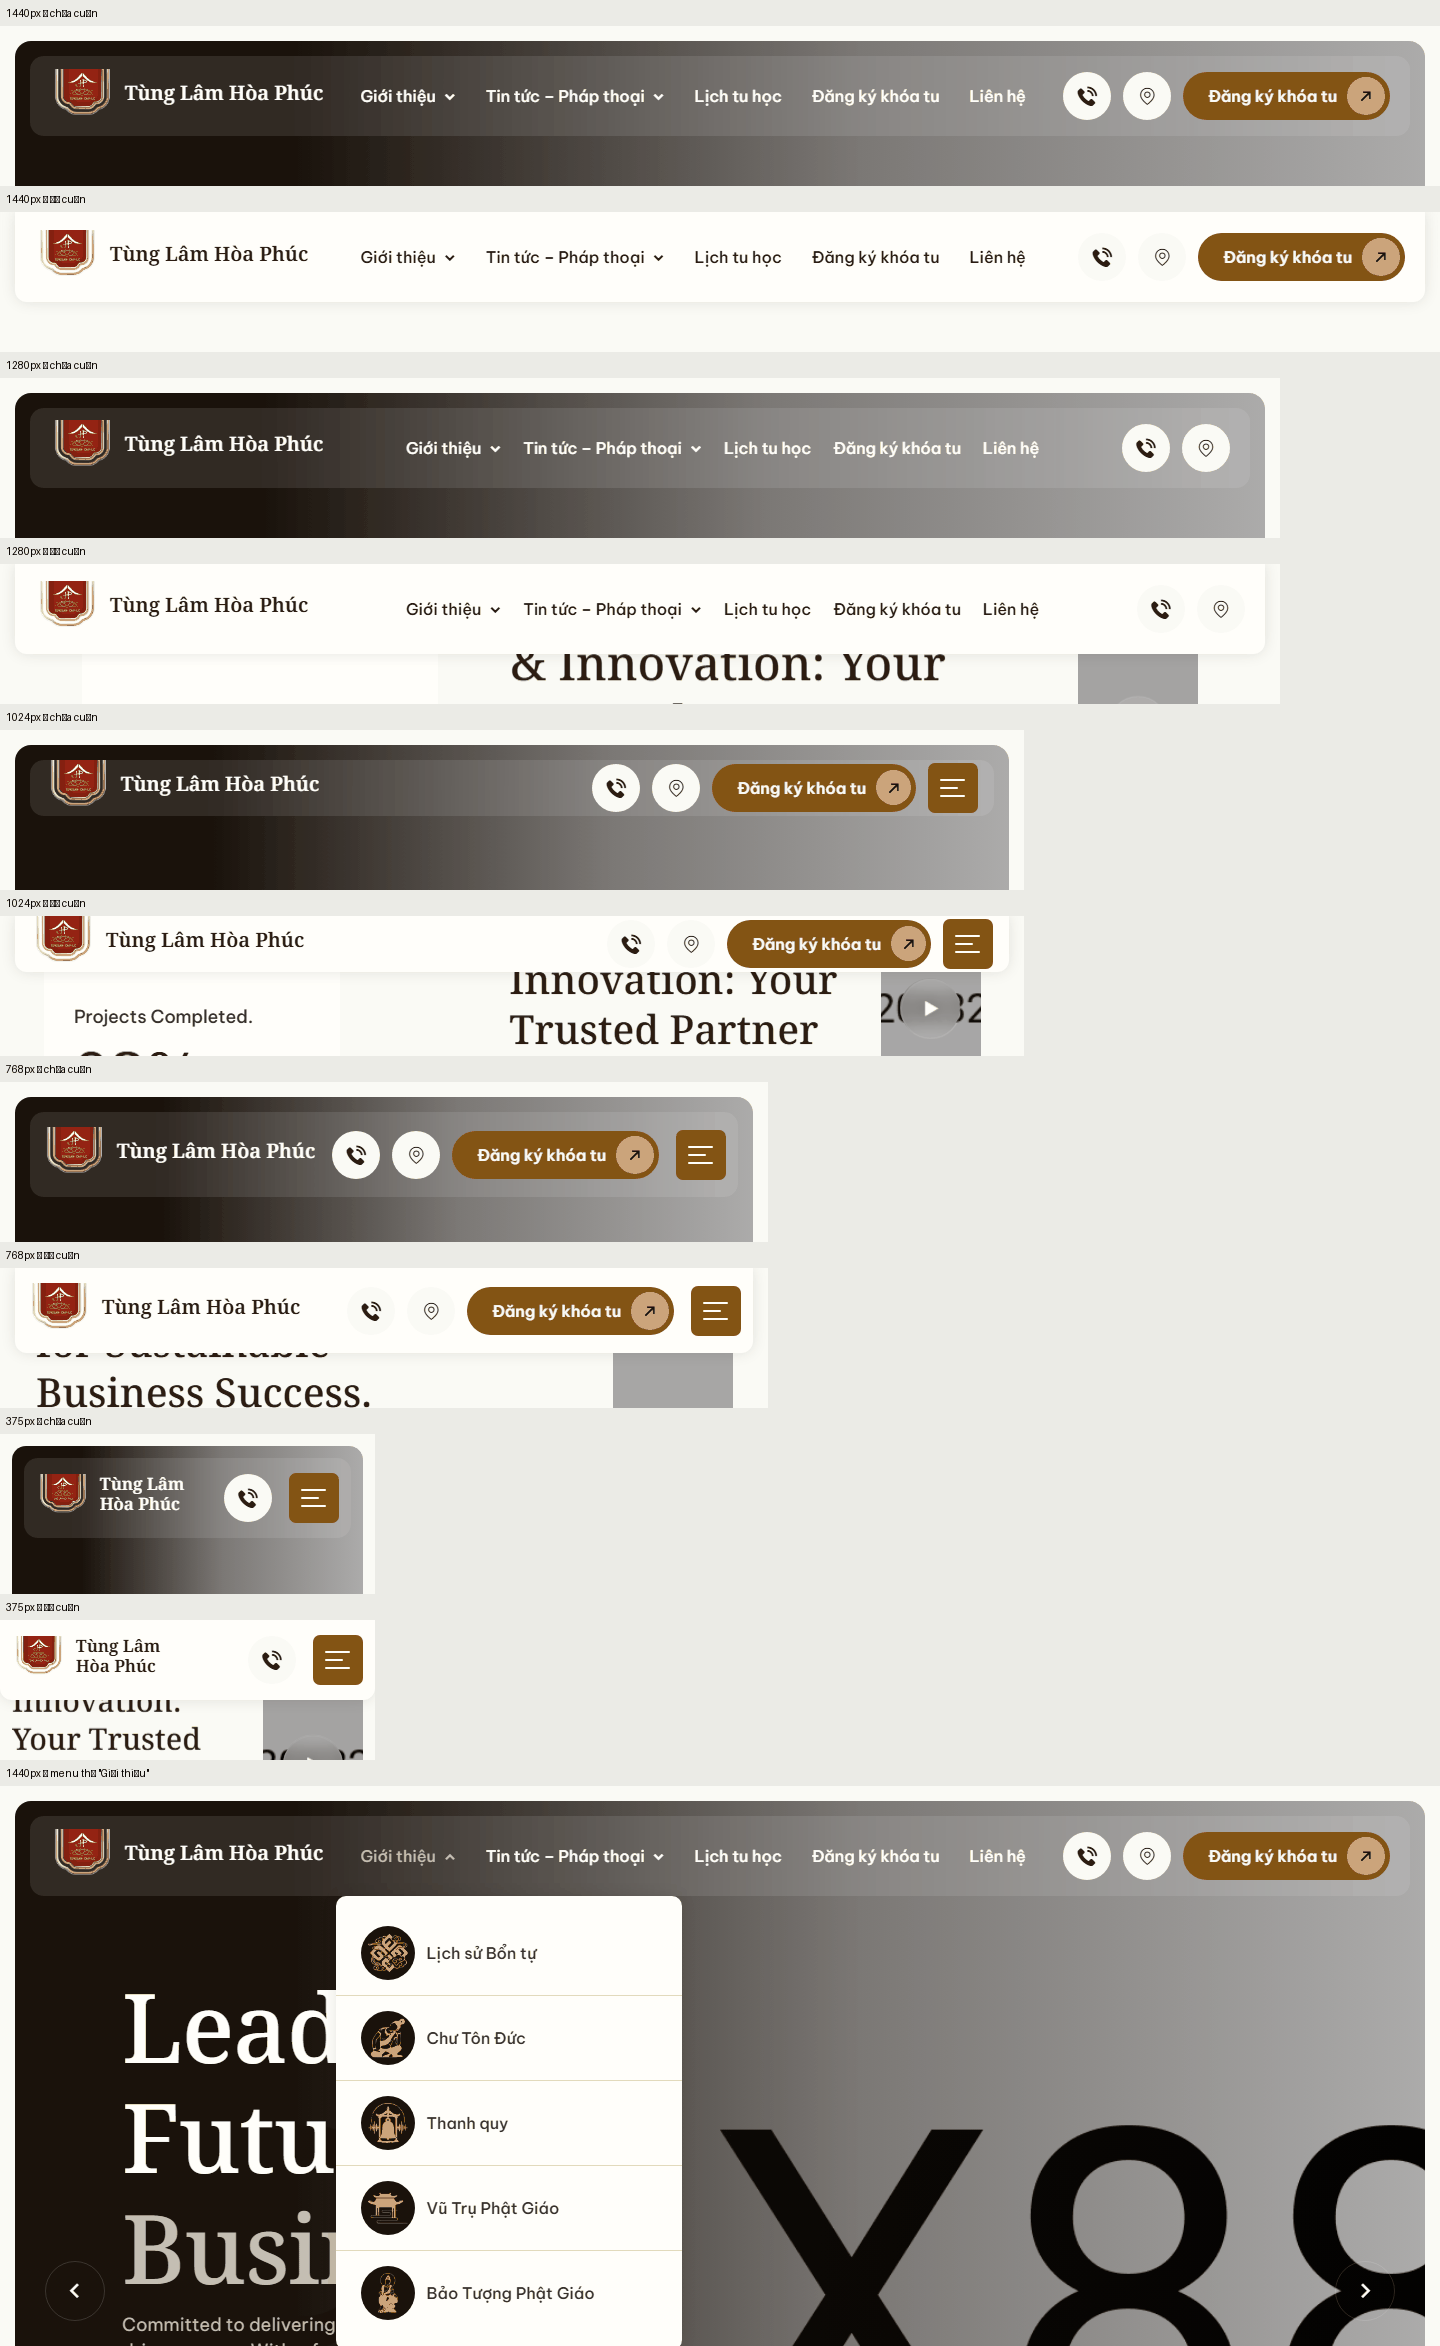
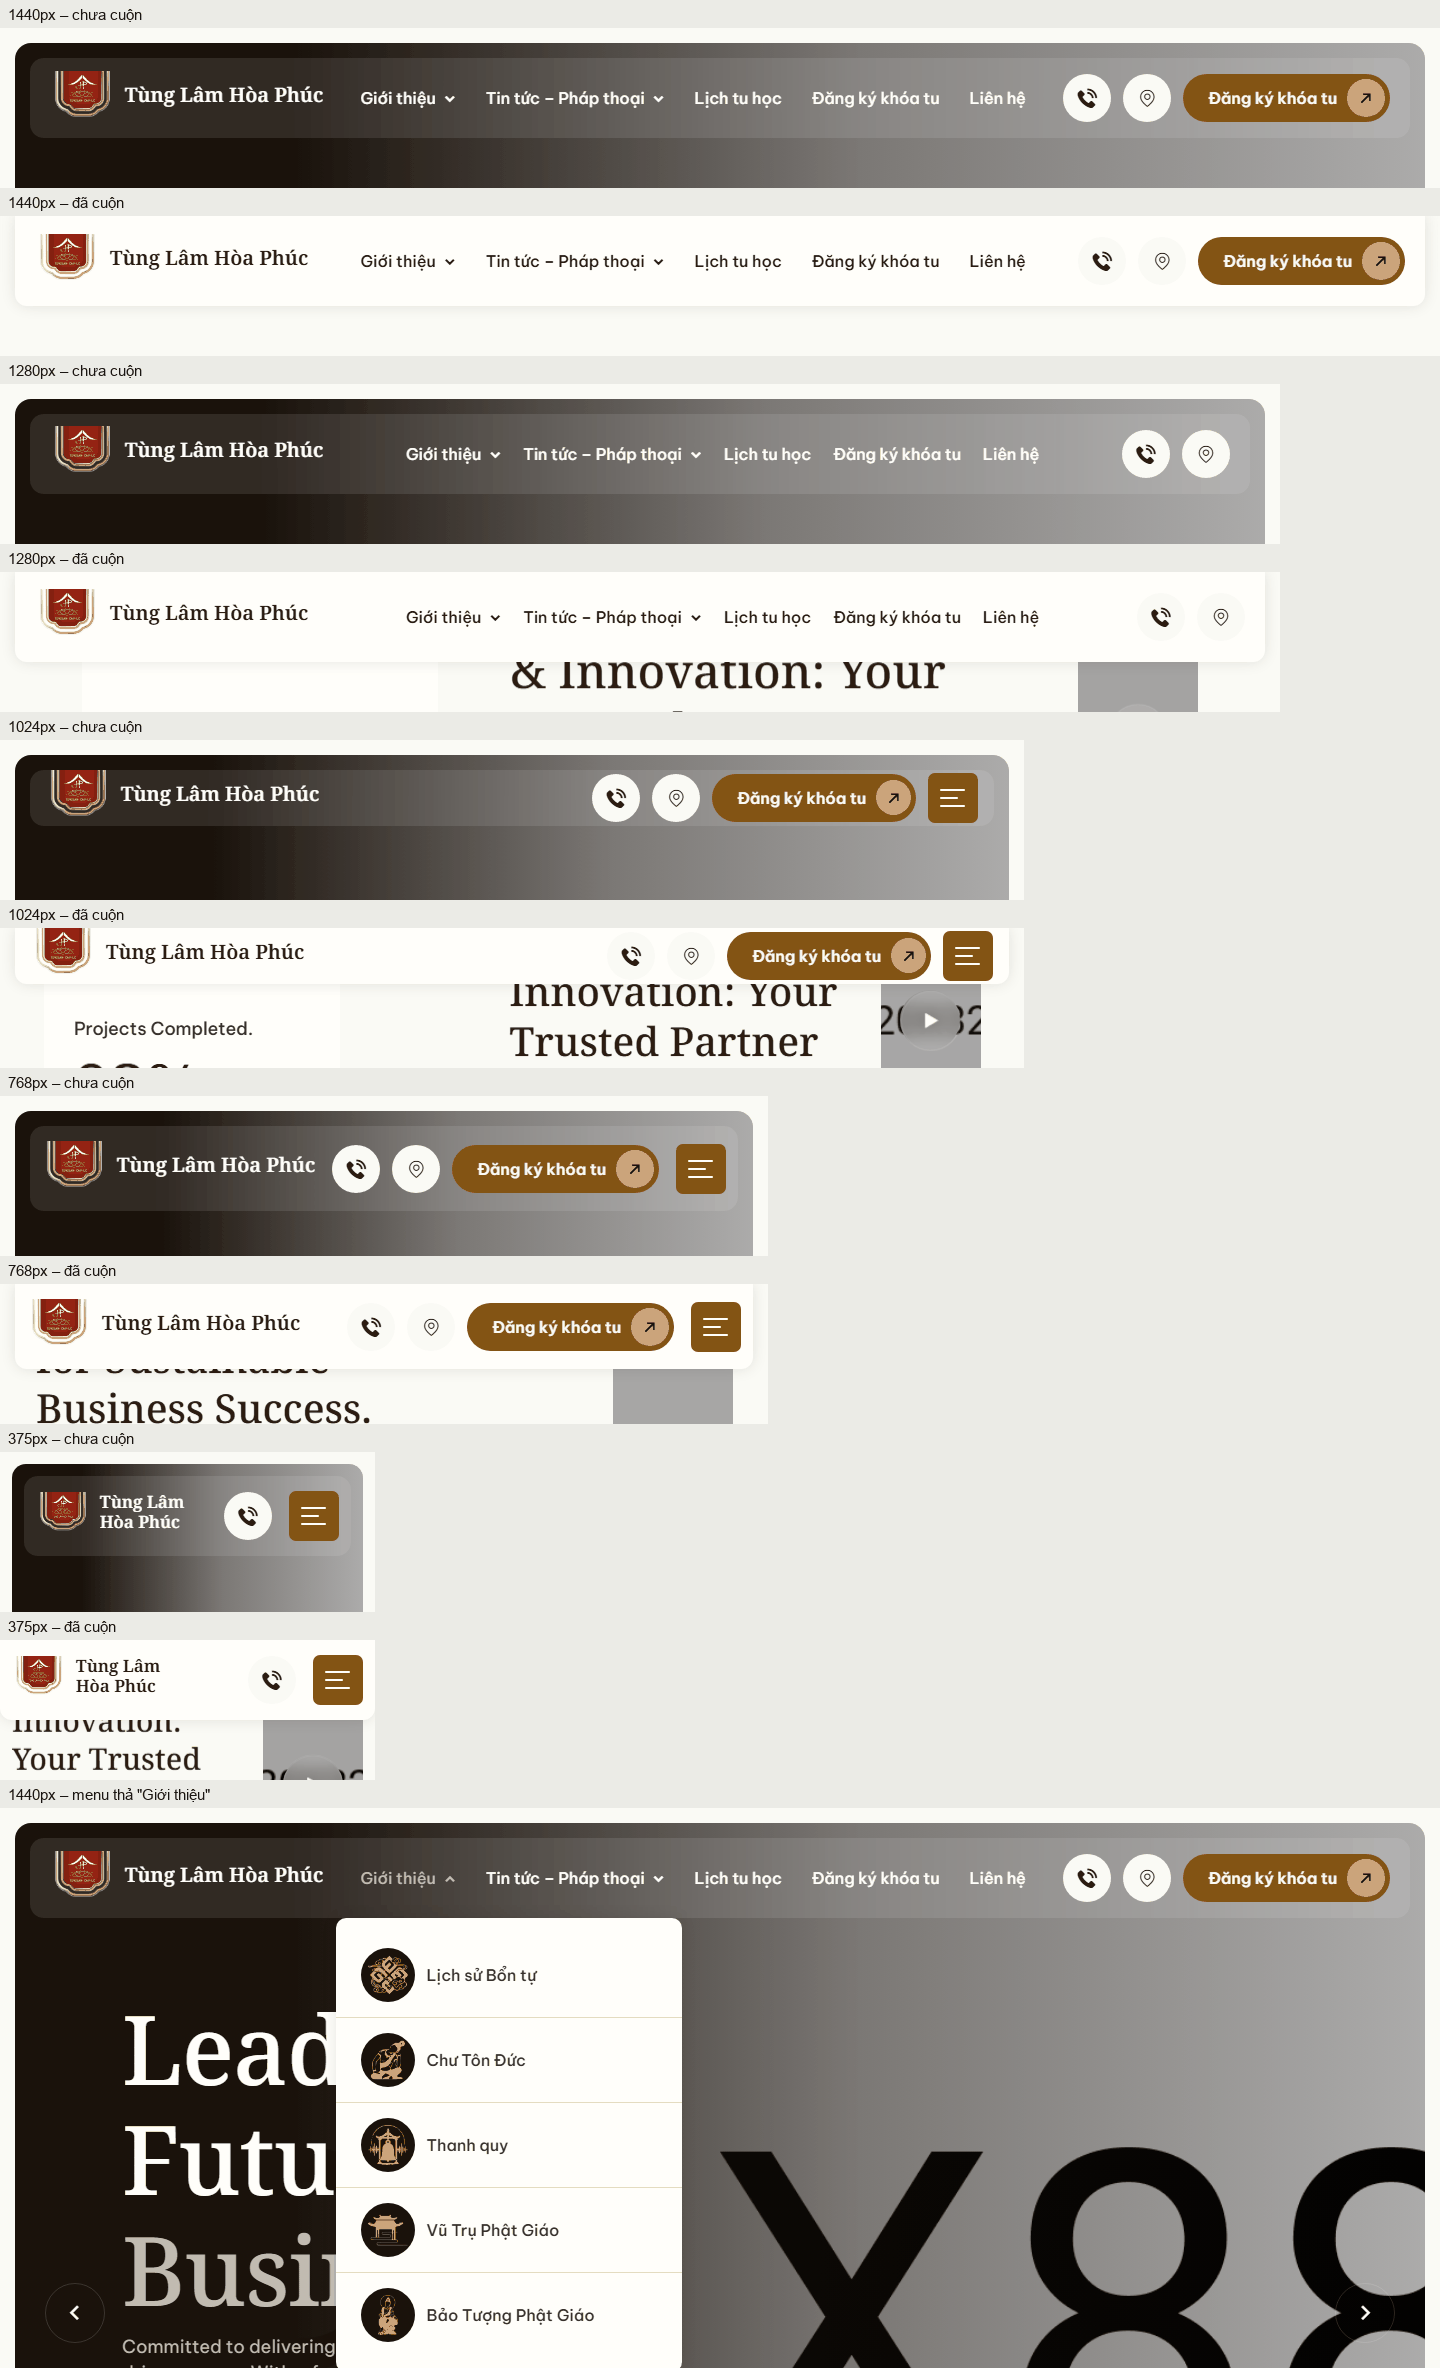
docs: ghi kết quả T5b
Ảnh T5a được dựng lại bằng font có dấu tiếng Việt.

diff --git a/tasks/todo.md b/tasks/todo.md
@@ -223,13 +223,32 @@
 
 **File Bexon:** `components/layout/header/Header.js` (popup tìm kiếm viết thẳng trong file này; `HeaderSearchForm.js` không được dùng và đã xóa ở T2), `assets/sass/components/_search.scss`
 
+**Kết quả 03/11/2026:** xong, đã deploy `v2.`.
+- **Popup tìm kiếm** (cờ `site.features.search`, đang tắt; `/styleguide` bật sẵn để xem trước):
+  - Là hộp thoại có bẫy focus, focus vào ô nhập khi mở; Esc, nút Đóng hoặc bấm ra ngoài đều đóng và trả focus về nút mở.
+  - Gửi `GET /tim-kiem?q=`. Khi đóng thì ẩn hẳn (trước đó chỉ trượt khỏi màn hình nên vẫn nhận focus).
+  - Bexon ẩn tìm kiếm dưới 992px; nay dùng được ở mọi cỡ. Dưới 576px ô tìm kiếm nằm trong menu trượt để header vẫn một hàng.
+  - Nút "Đăng ký khóa tu" nhường chỗ ở 768–1023px và 1280–1599px khi có nút tìm kiếm.
+- **Dải thông báo** (`AnnouncementBar`, đọc `site.announcement`, đang để trống; `/styleguide` có mẫu):
+  - Nằm trong luồng ở đầu `#smooth-content` của mọi trang (trừ `error.js`), nền `accent-soft`, cao tối thiểu 48px, có hạn hiển thị theo giờ Việt Nam.
+  - Nút "Đóng" nhớ trong phiên (`sessionStorage`), đưa focus về logo.
+  - Một đoạn script nhỏ chạy trước khi vẽ trang: ẩn dải đã đóng (không nháy) và báo chiều cao thật cho header nổi qua `--tlhp-announcement-offset`. Header dính không bị ảnh hưởng.
+- **Sửa lỗi gốc của Bexon phát hiện trong lúc làm:**
+  - `a:focus` và `button:focus-visible` bị đặt `outline: none` trên toàn site, nên dùng phím không thấy mình đang ở đâu (WCAG 2.4.7). Nay có vòng focus kép cho mọi liên kết, nút và ô nhập.
+  - `transition: all` trên `a`, `button`, `span`, `li`, `input`… làm phần tử con của bảng vừa mở bị ẩn thêm 0,3 giây và không nhận focus; nay `visibility` đổi ngay.
+  - ScrollSmoother cuộn trang khi focus vào phần tử nằm ngoài nội dung cuộn (header, popup), làm trang nhảy và đổi sang header dính; nay bỏ qua những phần tử đó (`onFocusIn`).
+  - `useFocusTrap` thử focus lại qua vài khung hình cho bảng hiện bằng chuyển `visibility`. Menu trượt của T5a dính đúng lỗi này; test T5a nay kiểm cả focus ban đầu.
+- **Lưu ý:** token `--tlhp-announcement-h` (48px) là chiều cao chuẩn của dải, không phải độ lệch của header; lần đầu đặt trùng tên làm header mọi trang lệch 48px, test đã bắt được.
+- **Để T6:** khi đưa header/footer vào `src/app/(site)/layout.js`, chuyển `AnnouncementBar` theo, bỏ dòng thêm vào từng trang.
+
 **Tiêu chí nghiệm thu:**
-- [ ] Popup tìm kiếm: Esc đóng và trả focus về nút mở; focus không thoát ra ngoài khi đang mở
-- [ ] Đóng dải thông báo thì không hiện lại trong phiên; dải không làm header dính nhảy vị trí
-- [ ] Khi cờ tìm kiếm tắt, không còn nút hay đường dẫn nào trỏ tới `/tim-kiem`
+- [x] Popup tìm kiếm: Esc đóng và trả focus về nút mở; focus không thoát ra ngoài khi đang mở (1440px và 768px; điện thoại dùng ô trong menu trượt)
+- [x] Đóng dải thông báo thì không hiện lại trong phiên (phiên mới hiện lại); dải không làm header dính nhảy vị trí
+- [x] Khi cờ tìm kiếm tắt, không còn nút hay đường dẫn nào trỏ tới `/tim-kiem` (kiểm trên `/`, `/blogs`, `/contact`)
 
 **Kiểm chứng:**
-- [ ] `npm run test:e2e -- header-extras`
+- [x] `npm run test:e2e -- header-extras` (34 test, chạy lặp 2 lần vẫn xanh); toàn bộ e2e 125 xanh trên `v2.`; unit 24 xanh
+- [x] Ảnh: `docs/anh/t5b-tim-kiem-va-thong-bao.png`
 
 **Phụ thuộc:** T5a
 

diff --git a/tasks/plan.md b/tasks/plan.md
@@ -220,7 +220,7 @@ Chi tiết từng task (mô tả, file Bexon liên quan, tiêu chí nghiệm thu
 - [x] T3b: Quét màu viết cứng, chỉnh chữ tiếng Việt và trang styleguide
 - [ ] T4: Lớp nội dung: snapshot JSON → repository (lát Dòng Chảy)
 - [x] T5a: Header và menu
-- [ ] T5b: Popup tìm kiếm và dải thông báo
+- [x] T5b: Popup tìm kiếm và dải thông báo
 - [ ] T6: Footer, khối kết trang, nút lên đầu trang và trang 404
 - [ ] **Checkpoint A** – duyệt giao diện nền trên `v2.` với Ban Truyền Thông
 
